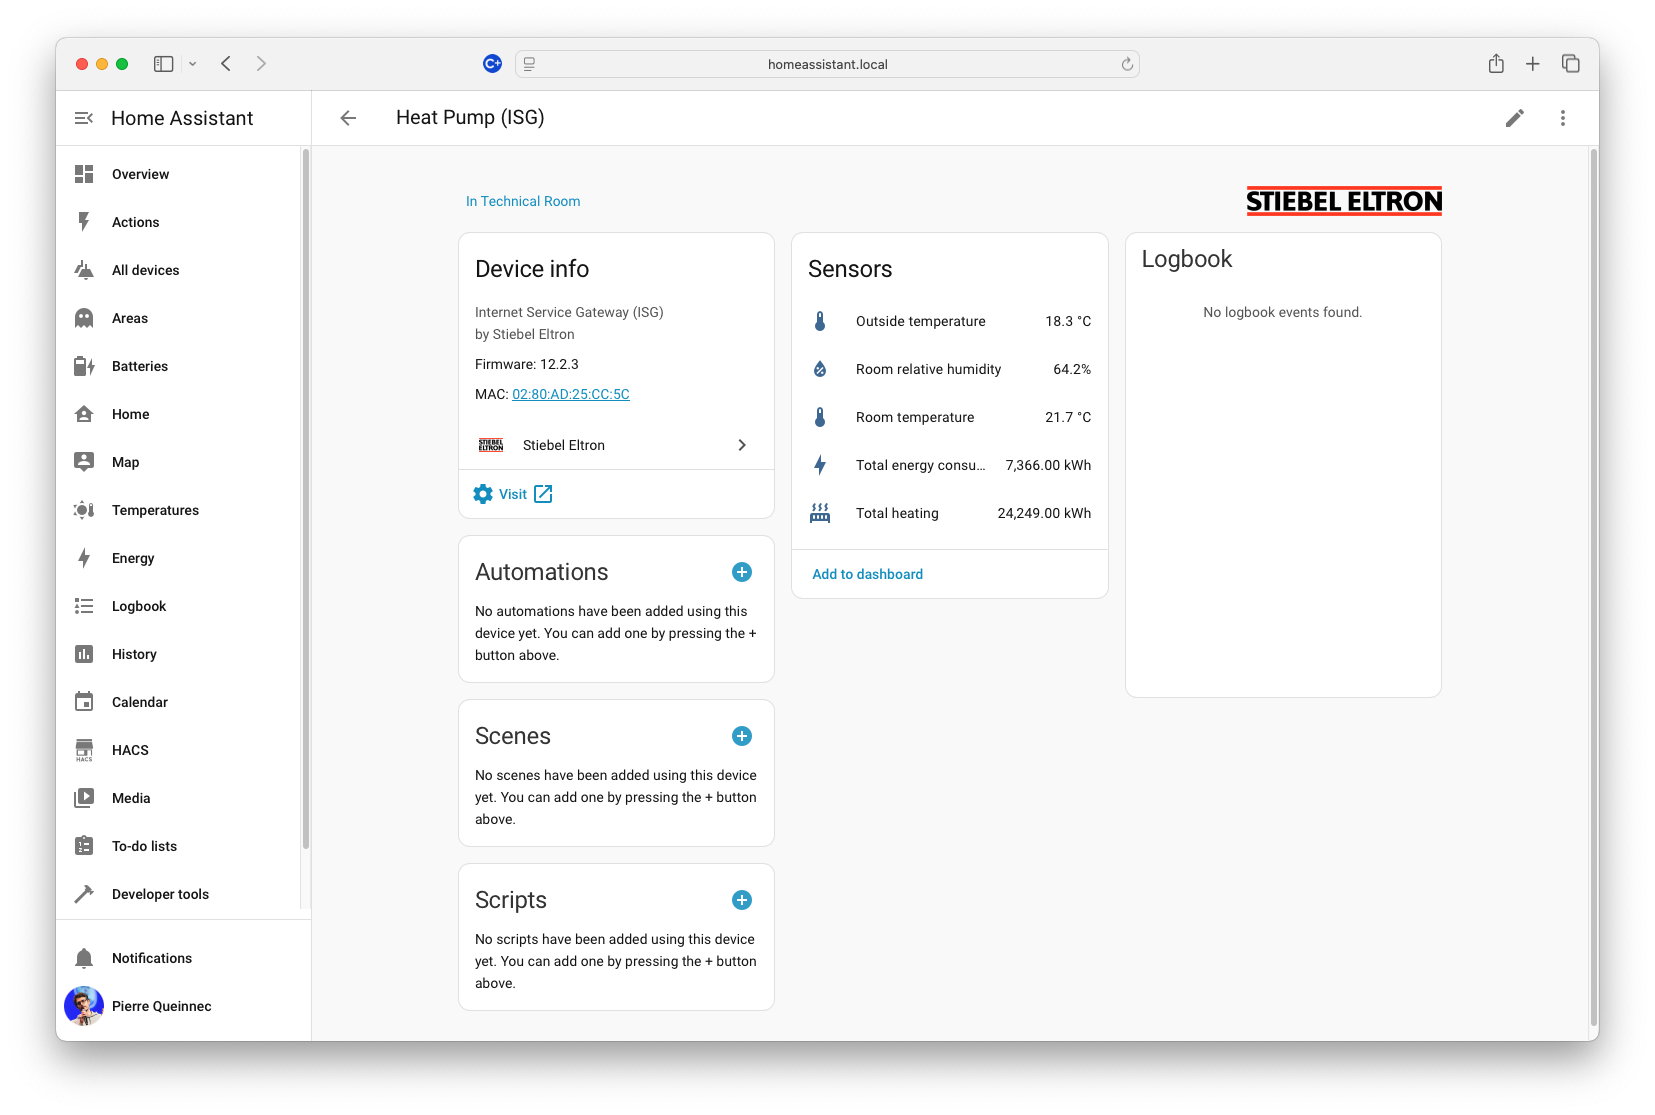
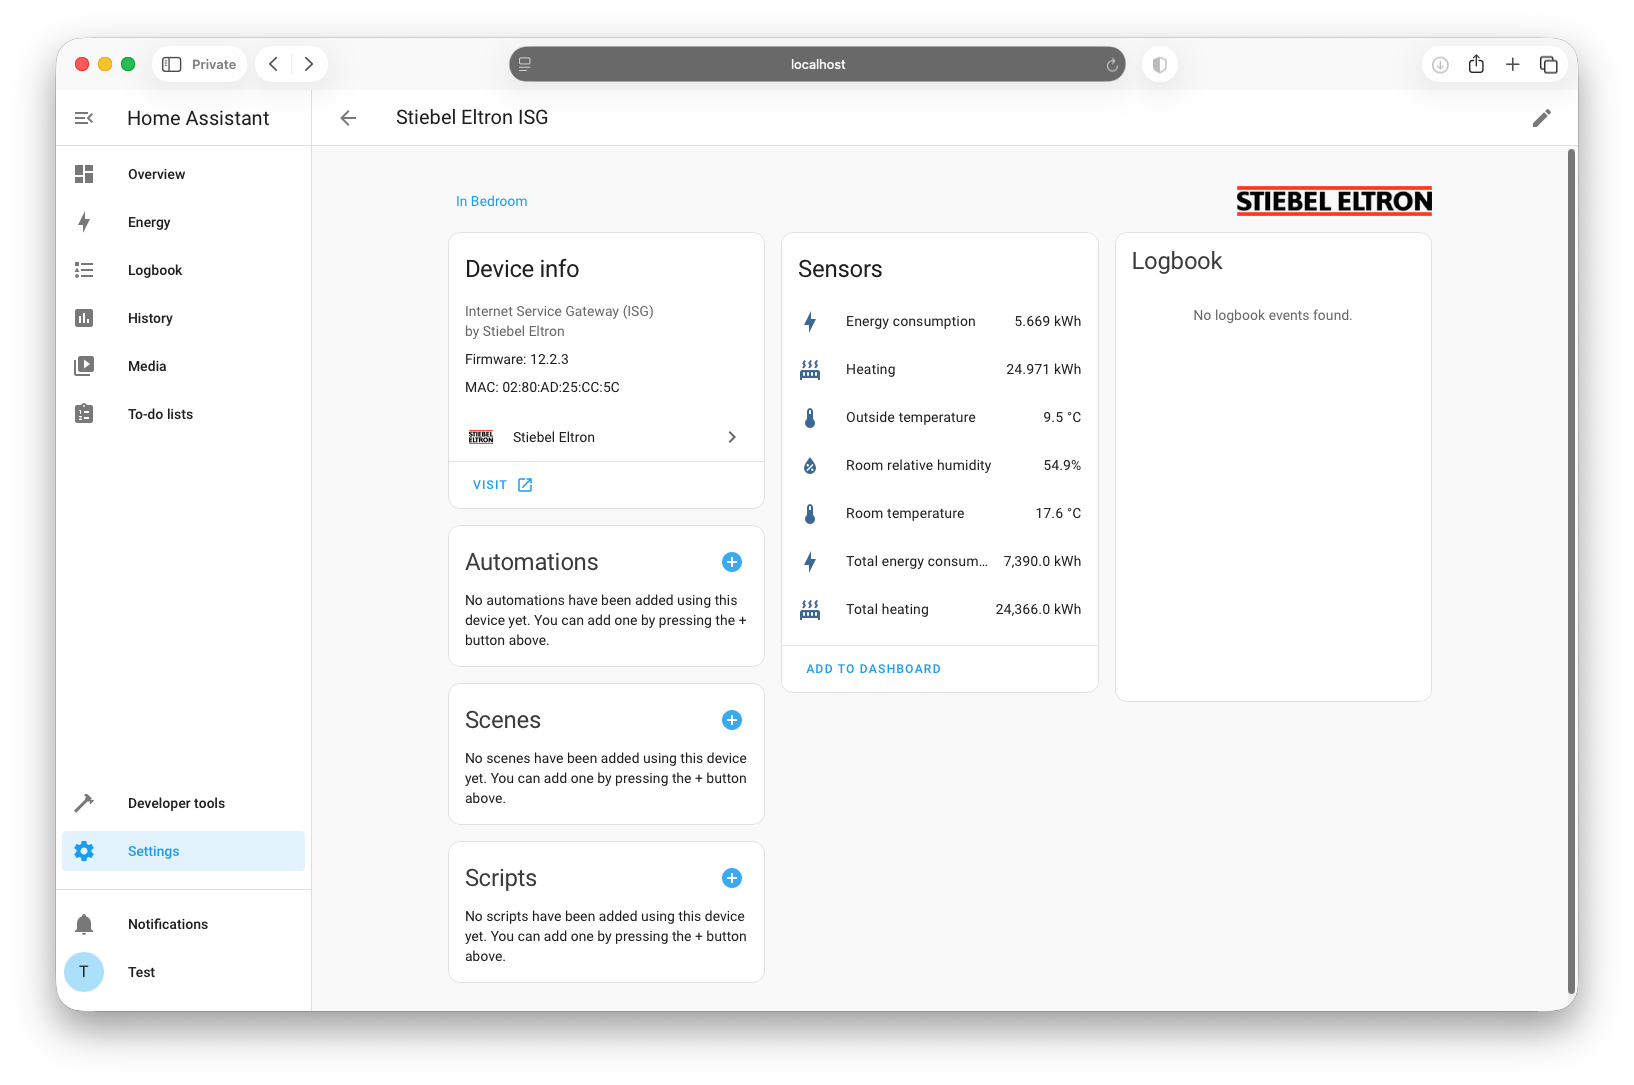
Update README.md to enhance sensor descriptions and add new individual tracking screenshot

diff --git a/README.md b/README.md
@@ -31,16 +31,20 @@ This integration is designed to work out-of-the-box and auto-discover your Stieb
 
 </details>
 
+
 ## Provided sensors
 
 - Room temperature
 - Room relative humidity
 - Outside temperature
-- Total heating produced
-- Total energy consumption
+- Heating produced (daily reset, correctly handled by HA)
+- Total heating produced (ever)
+- Energy consumption (daily reset, correctly handled by HA)
+- Total energy consumption (ever)
 
-With the **Total energy consumption** sensor, you can add this precious data to your Energy dashboard.
+With the **Energy consumption** sensor, you can add this precious data to your Energy dashboard, to monitor the individual consumption by your heat pump. See below for example screenshots.
 
 
 ## Screenshots
-![Sensors](./screenshots/device.png)
+![All sensors](./screenshots/device.png)
+![Individual tracking](./screenshots/individual-device-tracking.png)
